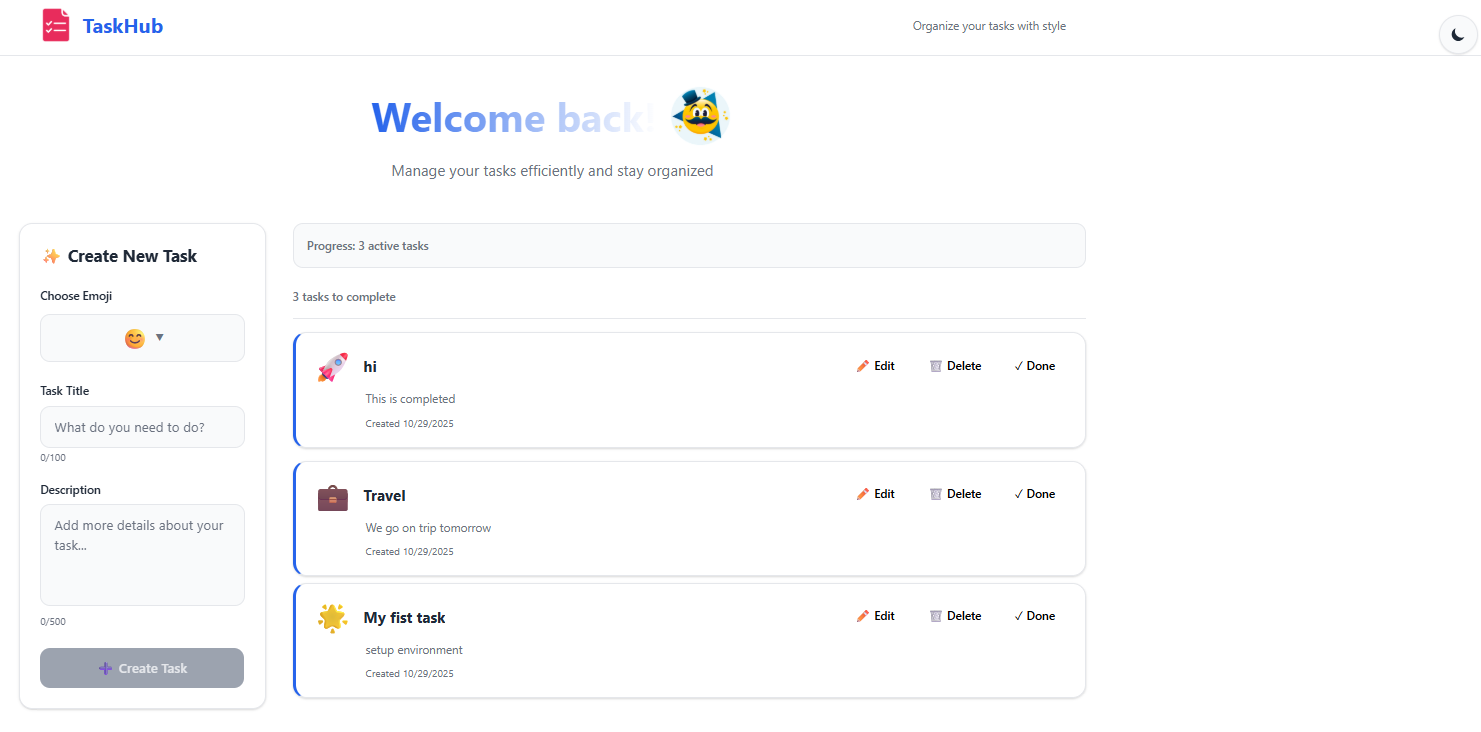
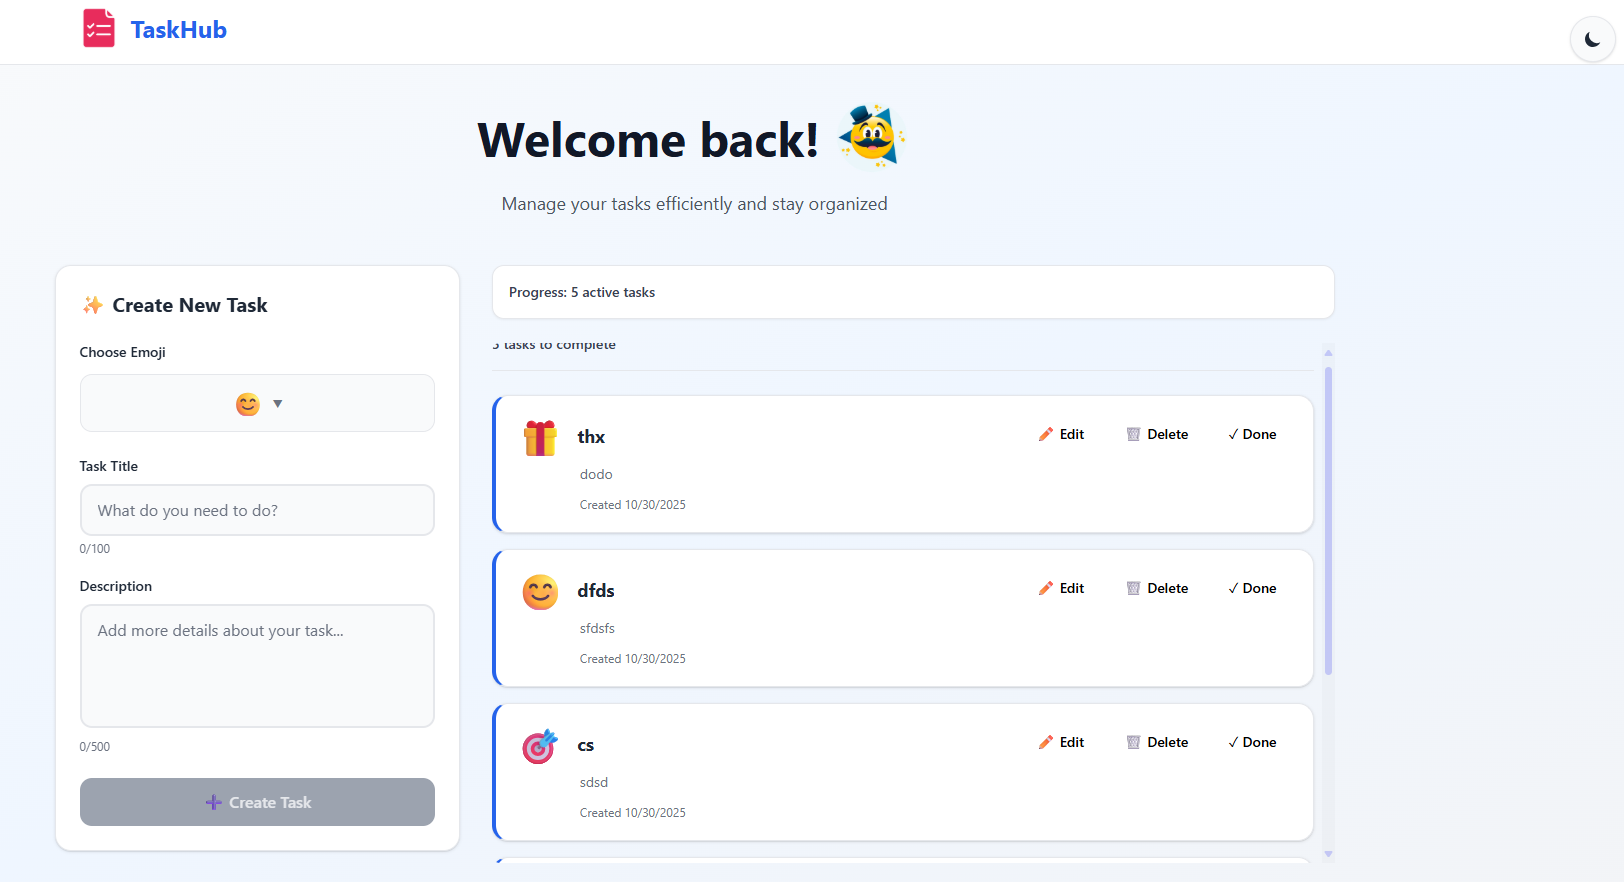
fixed aligment

diff --git a/frontend/src/App.css b/frontend/src/App.css
@@ -1,126 +1,64 @@
-/* ============================================
-   APP STYLES
-   ============================================ */
-
-.App {
-  text-align: center;
-}
-
-.App-logo {
-  height: 40vmin;
-  pointer-events: none;
-}
-
-@media (prefers-reduced-motion: no-preference) {
-  .App-logo {
-    animation: App-logo-spin infinite 20s linear;
-  }
-}
-
-.App-header {
-  background-color: #282c34;
-  min-height: 100vh;
-  display: flex;
-  flex-direction: column;
-  align-items: center;
-  justify-content: center;
-  font-size: calc(10px + 2vmin);
-  color: white;
-}
-
-.App-link {
-  color: #61dafb;
-}
-
-@keyframes App-logo-spin {
+/* Fade-in Animation */
+@keyframes fadeIn {
   from {
-    transform: rotate(0deg);
+    opacity: 0;
+    transform: translateY(10px);
   }
   to {
-    transform: rotate(360deg);
+    opacity: 1;
+    transform: translateY(0);
   }
 }
 
-/* ============================================
-   CUSTOM SCROLLBAR STYLES
-   ============================================ */
+.animate-fadeIn {
+  animation: fadeIn 0.4s ease-out;
+}
 
-/* Webkit Browsers (Chrome, Safari, Edge) */
+/* Enhanced Custom Scrollbar for Light Mode */
 .custom-scrollbar::-webkit-scrollbar {
-  width: 8px;
-  height: 8px;
+  width: 10px;
 }
 
 .custom-scrollbar::-webkit-scrollbar-track {
-  background: transparent;
+  background: rgba(0, 0, 0, 0.02);
   border-radius: 10px;
-  margin: 4px 0;
+  margin: 8px 0;
 }
 
 .custom-scrollbar::-webkit-scrollbar-thumb {
-  background: rgba(148, 163, 184, 0.3);
+  background: linear-gradient(180deg, rgba(99, 102, 241, 0.3), rgba(59, 130, 246, 0.3));
   border-radius: 10px;
-  transition: background 0.2s ease-in-out;
+  border: 2px solid transparent;
+  background-clip: padding-box;
+  transition: all 0.3s ease;
 }
 
 .custom-scrollbar::-webkit-scrollbar-thumb:hover {
-  background: rgba(148, 163, 184, 0.5);
+  background: linear-gradient(180deg, rgba(99, 102, 241, 0.5), rgba(59, 130, 246, 0.5));
+  background-clip: padding-box;
 }
 
-.custom-scrollbar::-webkit-scrollbar-thumb:active {
-  background: rgba(148, 163, 184, 0.6);
+/* Dark Mode */
+.dark .custom-scrollbar::-webkit-scrollbar-track {
+  background: rgba(255, 255, 255, 0.05);
 }
 
-/* Dark Mode Scrollbar */
 .dark .custom-scrollbar::-webkit-scrollbar-thumb {
-  background: rgba(71, 85, 105, 0.4);
+  background: rgba(71, 85, 105, 0.5);
+  background-clip: padding-box;
 }
 
 .dark .custom-scrollbar::-webkit-scrollbar-thumb:hover {
-  background: rgba(71, 85, 105, 0.6);
+  background: rgba(71, 85, 105, 0.7);
+  background-clip: padding-box;
 }
 
-.dark .custom-scrollbar::-webkit-scrollbar-thumb:active {
-  background: rgba(71, 85, 105, 0.8);
-}
-
-/* Firefox Scrollbar */
+/* Firefox */
 .custom-scrollbar {
   scrollbar-width: thin;
-  scrollbar-color: rgba(148, 163, 184, 0.3) transparent;
+  scrollbar-color: rgba(99, 102, 241, 0.3) rgba(0, 0, 0, 0.02);
 }
 
 .dark .custom-scrollbar {
-  scrollbar-color: rgba(71, 85, 105, 0.4) transparent;
-}
-
-/* ============================================
-   SMOOTH SCROLLING
-   ============================================ */
-
-.custom-scrollbar {
-  scroll-behavior: smooth;
-}
-
-/* Hide scrollbar when not hovering (optional) */
-.custom-scrollbar:not(:hover)::-webkit-scrollbar-thumb {
-  background: transparent;
-}
-
-.dark .custom-scrollbar:not(:hover)::-webkit-scrollbar-thumb {
-  background: transparent;
-}
-
-/* ============================================
-   UTILITY CLASSES
-   ============================================ */
-
-/* Remove default scrollbar for cleaner look */
-.no-scrollbar::-webkit-scrollbar {
-  display: none;
-}
-
-.no-scrollbar {
-  -ms-overflow-style: none;
-  scrollbar-width: none;
+  scrollbar-color: rgba(71, 85, 105, 0.5) rgba(255, 255, 255, 0.05);
 }

diff --git a/frontend/src/pages/Home.jsx b/frontend/src/pages/Home.jsx
@@ -69,14 +69,16 @@ const Home = () => {
   };
 
   return (
-    <div className="home min-h-screen flex flex-col py-8 px-6">
+    <div className={`home min-h-screen flex flex-col py-8 px-6 ${
+      isDark ? "bg-dark-bg" : "bg-gradient-to-br from-gray-50 via-blue-50 to-gray-100"
+    }`}>
       <div className="max-w-7xl mx-auto w-full flex flex-col">
         {/* Page Header */}
         <div className="mb-12 text-center flex-shrink-0">
           <div className="flex items-center justify-center gap-3 mb-3">
             <h1
               className={`text-5xl font-bold ${
-                isDark ? "text-dark-text" : "text-light-text"
+                isDark ? "text-dark-text" : "text-gray-900"
               }`}
             >
               Welcome back!
@@ -90,7 +92,7 @@ const Home = () => {
 
           <p
             className={`text-lg ${
-              isDark ? "text-dark-text-secondary" : "text-light-text-secondary"
+              isDark ? "text-dark-text-secondary" : "text-gray-600"
             }`}
           >
             Manage your tasks efficiently and stay organized
@@ -120,17 +122,17 @@ const Home = () => {
             {/* Progress Info - Fixed at top */}
             {tasks.length > 0 && (
               <div
-                className={`mb-6 p-4 rounded-xl border flex-shrink-0 ${
+                className={`mb-6 p-4 rounded-xl border flex-shrink-0 shadow-sm ${
                   isDark
                     ? "bg-dark-surface border-dark-border"
-                    : "bg-light-surface border-light-border"
+                    : "bg-white border-gray-200"
                 }`}
               >
                 <p
                   className={`text-sm font-semibold ${
                     isDark
                       ? "text-dark-text-secondary"
-                      : "text-light-text-secondary"
+                      : "text-gray-700"
                   }`}
                 >
                   Progress: {tasks.length} active task
@@ -143,7 +145,7 @@ const Home = () => {
             <div
               className="overflow-y-auto custom-scrollbar pr-2 rounded-lg"
               style={{
-                height: "520px", // Adjust to control how many cards are visible
+                height: "520px",
                 maxHeight: "calc(100vh - 280px)",
               }}
             >

diff --git a/frontend/src/components/TaskList.jsx b/frontend/src/components/TaskList.jsx
@@ -10,19 +10,19 @@ const TaskList = ({ tasks, onDone, onEdit, onDelete }) => {
         className={`rounded-2xl p-12 text-center border-2 border-dashed transition-all
           ${isDark
             ? "border-dark-border bg-dark-surface"
-            : "border-light-border bg-light-surface"
+            : "border-gray-200 bg-gray-50"
           }`}
       >
         <div className="text-5xl mb-4">📭</div>
         <p
           className={`text-xl font-semibold mb-2
-            ${isDark ? "text-dark-text" : "text-light-text"}`}
+            ${isDark ? "text-dark-text" : "text-gray-800"}`}
         >
           No tasks yet!
         </p>
         <p
           className={`text-sm
-            ${isDark ? "text-dark-text-secondary" : "text-light-text-secondary"}`}
+            ${isDark ? "text-dark-text-secondary" : "text-gray-600"}`}
         >
           Create your first task to get started ✨
         </p>
@@ -35,11 +35,11 @@ const TaskList = ({ tasks, onDone, onEdit, onDelete }) => {
       {/* Header */}
       <div
         className={`mb-6 pb-4 border-b
-          ${isDark ? "border-dark-border" : "border-light-border"}`}
+          ${isDark ? "border-dark-border" : "border-gray-200"}`}
       >
         <p
           className={`text-sm font-semibold
-            ${isDark ? "text-dark-text-secondary" : "text-light-text-secondary"}`}
+            ${isDark ? "text-dark-text-secondary" : "text-gray-700"}`}
         >
           {tasks.length} task{tasks.length !== 1 ? "s" : ""} to complete
         </p>

diff --git a/frontend/src/App.js b/frontend/src/App.js
@@ -17,9 +17,7 @@ function App() {
                 TaskHub
               </h1>
             </div>
-            <p className="text-sm text-light-text-secondary dark:text-dark-text-secondary">
-              Organize your tasks with style
-            </p>
+            
           </div>
         </header>
 
